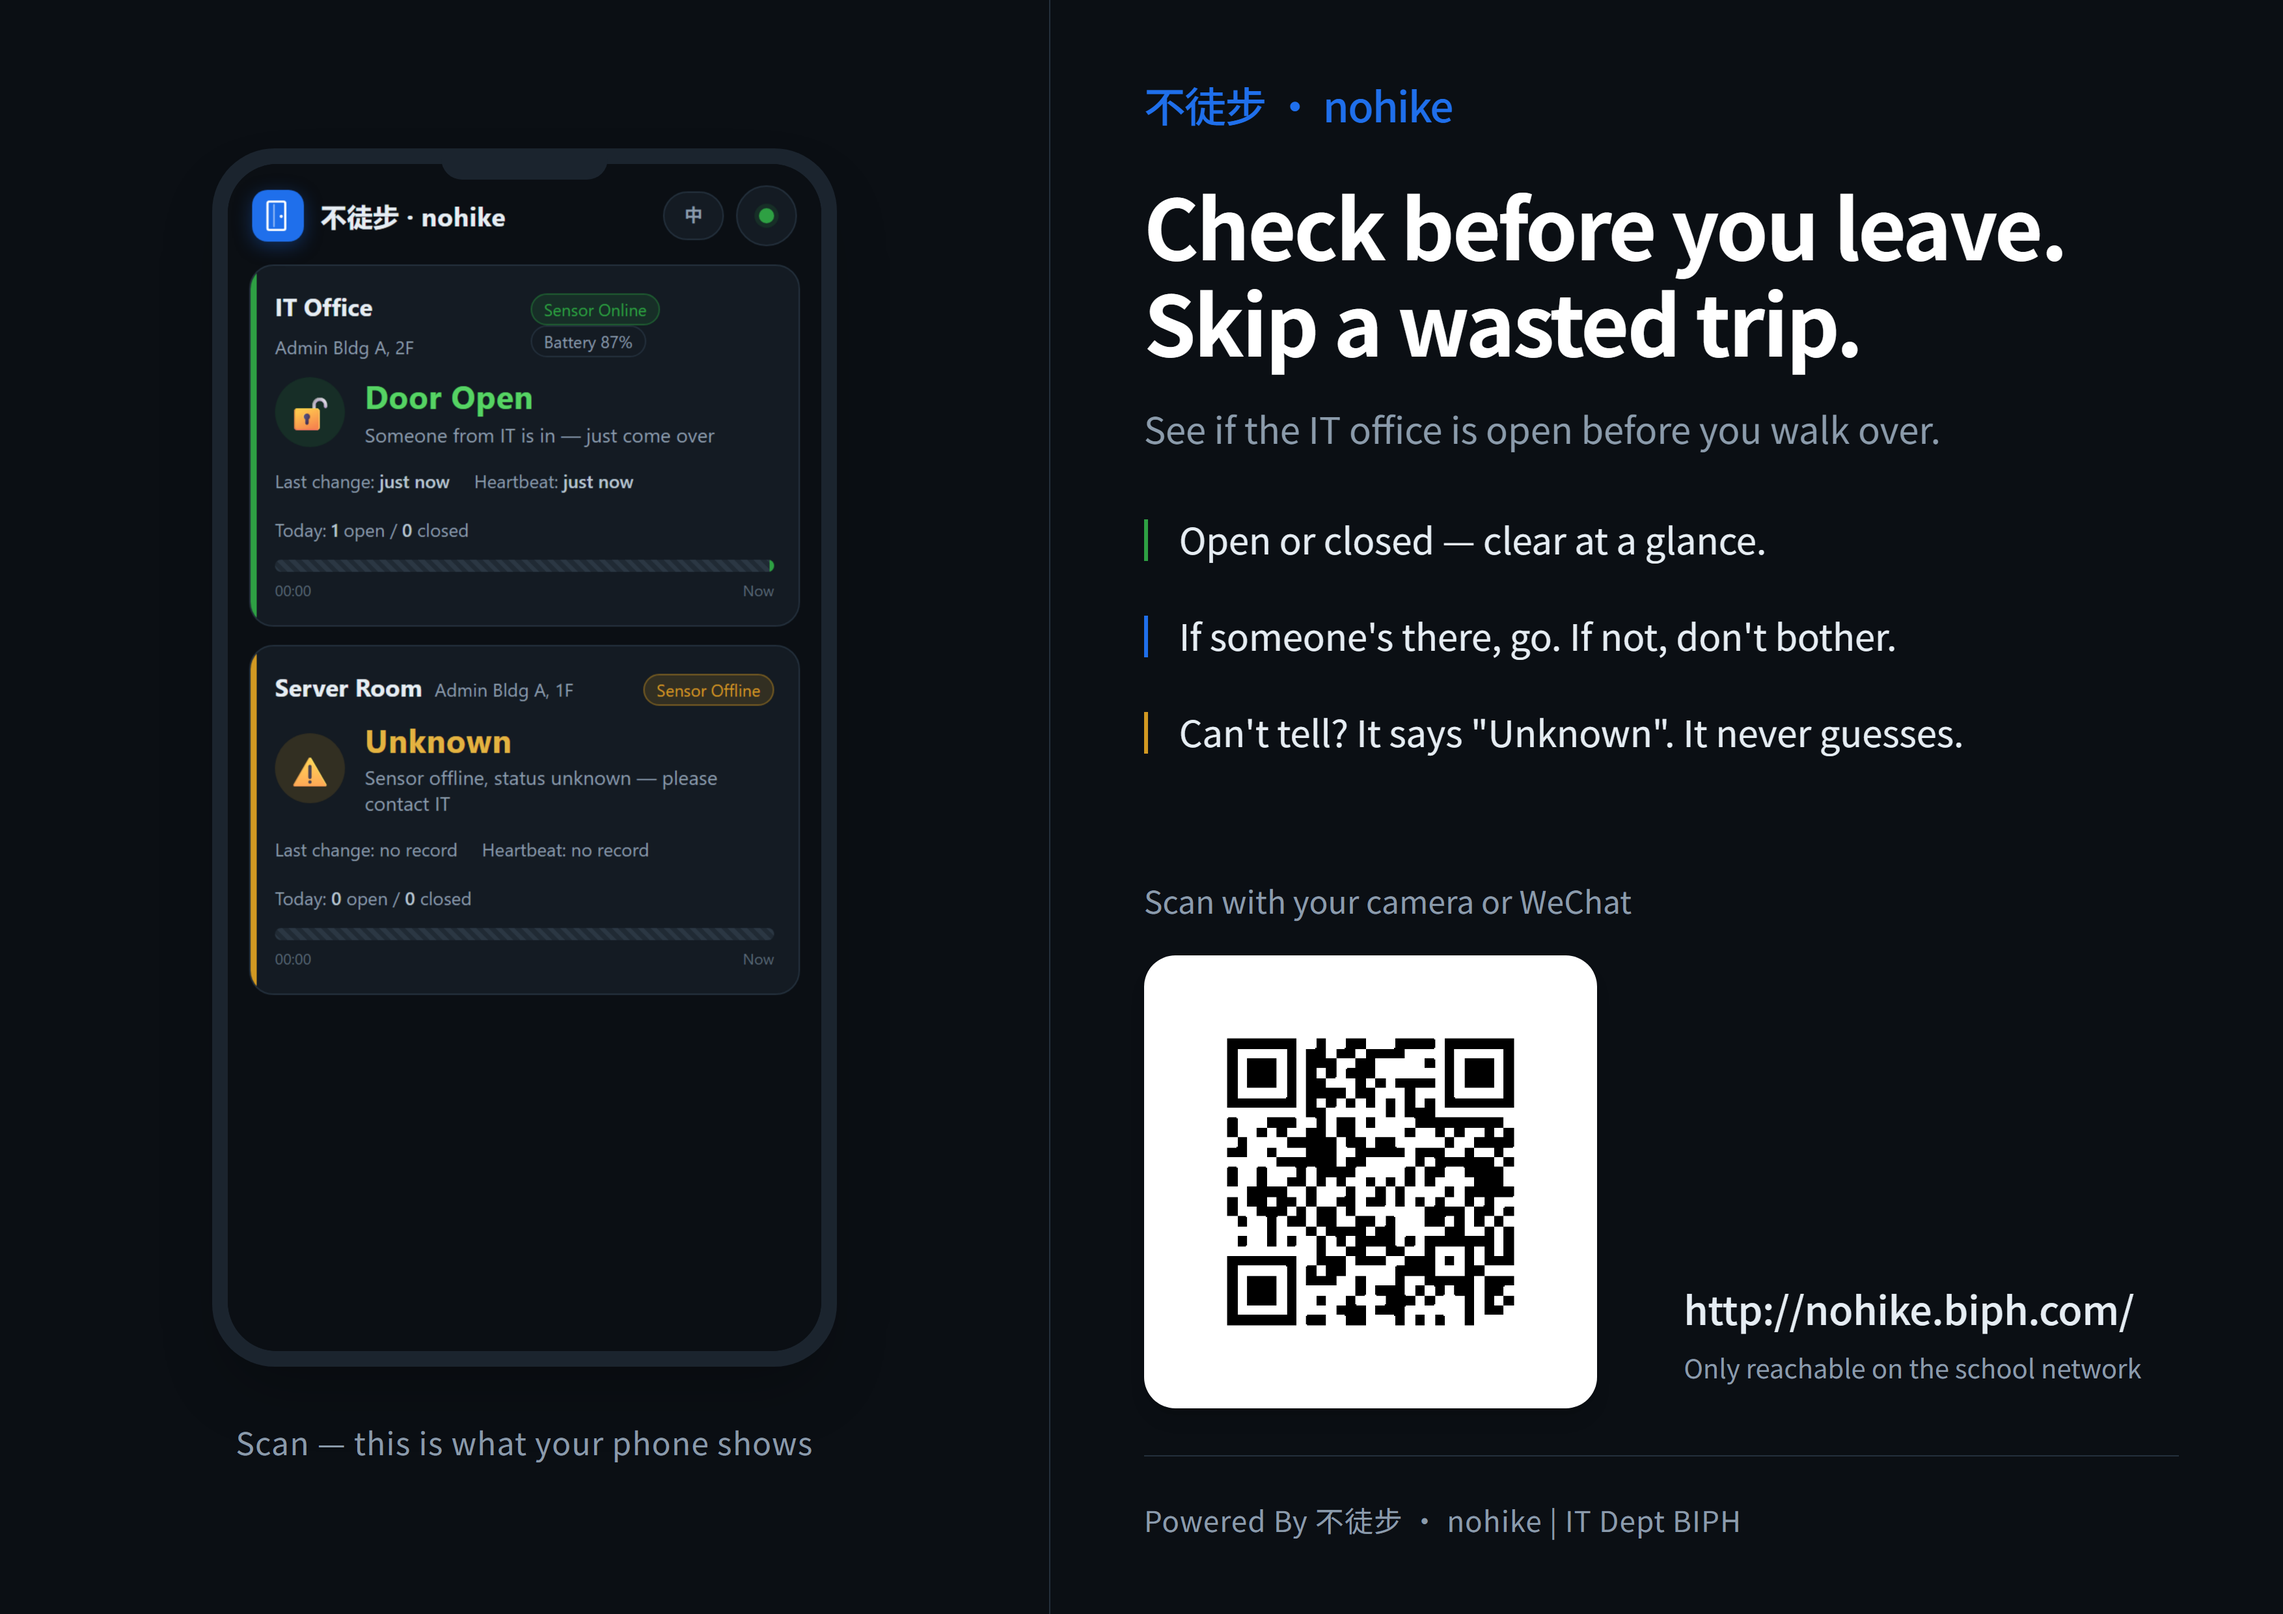
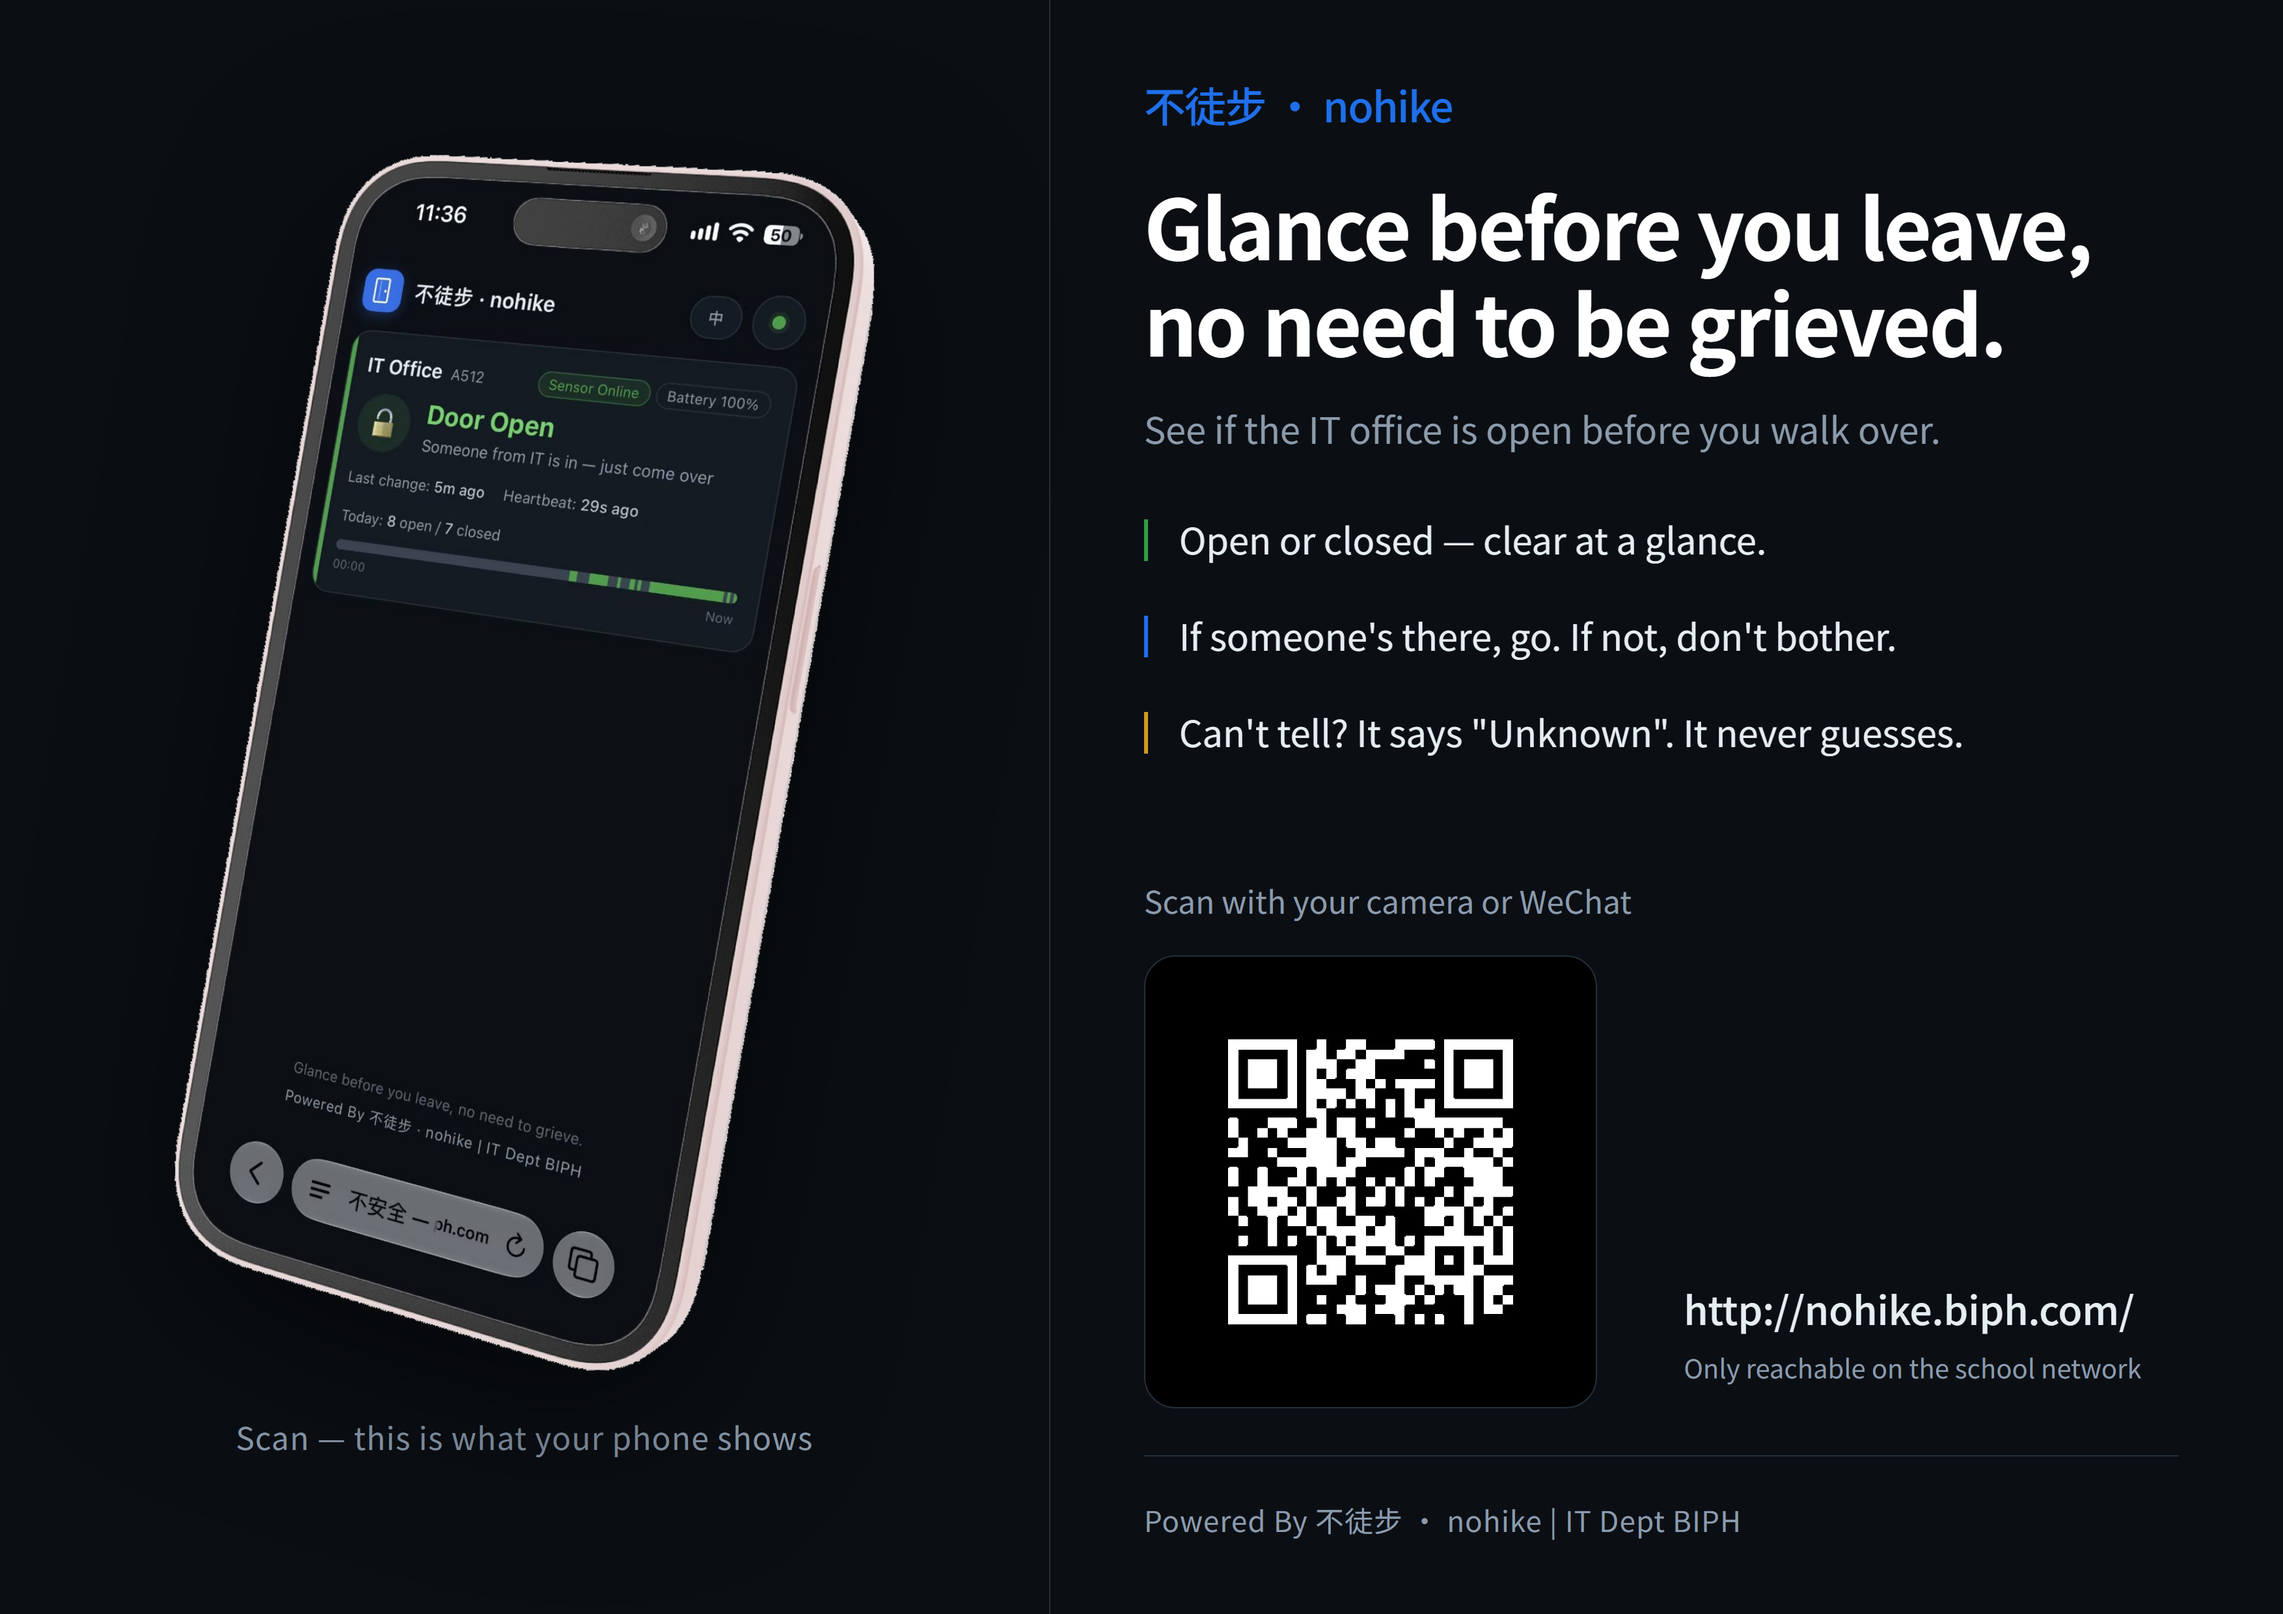
D 版海报定稿：侧角实拍 + 黑底白码二维码 + 英文新 slogan
- 左侧手机样机换成真机侧角实拍（中文/英文各一张，均为 1004x1742 抠图）
- 二维码改反色（ISO/IEC 18004 reflectance reversal）：
  卡片从白底改黑底 + 细描边，静区随背景变黑，四周不留任何白边
- 新增素材 assets/qr-nohike-inv.png（996x996 反色）与 assets/phone-angle-en.png
- 英文标题改为 Glance before you leave, no need to be grieved.
- 英文网页版页脚同步更新（public/i18n.js + test/ui.mjs 断言）
- 删除被取代的中间变体 poster-d-scan-phone-front / poster-d-scan-phone-angle

验证：两张成品 PNG（3508x2480）反解均得 http://nohike.biph.com/；
中文版在 1754x1240 与 877x620 降采样下同样解出；渲染探针显示无元素越界。

Changed region(s): [[0.0621, 0.0931, 0.4039, 0.9004], [0.4971, 0.5899, 0.7147, 0.9004], [0.4971, 0.1242, 0.9322, 0.2484]]

diff --git a/docs/posters/poster-d-scan-en.html b/docs/posters/poster-d-scan-en.html
@@ -17,19 +17,11 @@
     
     <!-- Left Zone: Phone Mockup (46%) -->
     <div class="w-[46%] h-full flex flex-col items-center justify-center border-r border-[#24303c]" data-sd-id="2">
-      <div class="relative" data-sd-id="3">
-        <!-- Phone Body -->
-        <div class="w-[480px] h-[936px] bg-[#1b242e] rounded-[48px] p-[12px] shadow-2xl relative overflow-hidden" data-sd-id="4">
-          <!-- Screen Container -->
-          <div class="w-full h-full bg-[#0b0f14] rounded-[38px] overflow-hidden relative" data-sd-id="5">
-            <img src="assets/dashboard-mobile-en.png" class="w-full h-full object-cover object-top" alt="Mobile Dashboard Preview" data-sd-id="6">
-          </div>
-          <!-- Bezel detail/Reflections (CSS only) -->
-          <div class="absolute top-0 left-1/2 -translate-x-1/2 w-32 h-6 bg-[#1b242e] rounded-b-2xl z-10" data-sd-id="7"></div>
-        </div>
-        <!-- Caption -->
-        <p class="mt-10 text-[24px] text-[#8b9bab] tracking-wide text-center" data-sd-id="8">Scan — this is what your phone shows</p>
-      </div>
+            <img src="assets/phone-angle-en.png"
+           class="w-[540px] drop-shadow-[0_36px_64px_rgba(0,0,0,0.6)]"
+           alt="真机实拍:手机上的门磁看板" data-sd-id="3">
+      <!-- Caption -->
+        <p class="mt-8 text-[24px] text-[#8b9bab] tracking-wide text-center" data-sd-id="8">Scan — this is what your phone shows</p>
     </div>
 
     <!-- Right Zone: Info Column (54%) -->
@@ -39,7 +31,7 @@
       <div data-sd-id="10">
         <span class="text-[32px] font-medium text-[#1f6feb] tracking-tight block mb-8" data-sd-id="11">不徒步 · nohike</span>
         <h1 class="text-[64px] font-bold leading-[1.15] tracking-tight mb-6 text-white" data-sd-id="12">
-          Check before you leave.<br>Skip a wasted trip.
+          Glance before you leave,<br>no need to be grieved.
         </h1>
         <p class="text-[28px] text-[#8b9bab] leading-relaxed mb-10" data-sd-id="13">
           See if the IT office is open before you walk over.
@@ -66,8 +58,8 @@
       <div class="flex items-end gap-10" data-sd-id="24">
         <div class="flex flex-col" data-sd-id="25">
           <p class="text-[24px] text-[#8b9bab] mb-6" data-sd-id="26">Scan with your camera or WeChat</p>
-          <div class="w-[348px] h-[348px] bg-white rounded-[24px] p-[24px] flex items-center justify-center shadow-lg" data-sd-id="27">
-            <img src="assets/qr-nohike.png" class="w-full h-full" alt="QR Code" data-sd-id="28">
+          <div class="w-[348px] h-[348px] bg-black rounded-[24px] p-[24px] flex items-center justify-center border border-[#24303c]" data-sd-id="27">
+            <img src="assets/qr-nohike-inv.png" class="w-full h-full" alt="QR Code" data-sd-id="28">
           </div>
         </div>
         

diff --git a/docs/posters/poster-d-scan.html b/docs/posters/poster-d-scan.html
@@ -17,19 +17,11 @@
     
     <!-- Left Zone: Phone Mockup (46%) -->
     <div class="w-[46%] h-full flex flex-col items-center justify-center border-r border-[#24303c]" data-sd-id="2">
-      <div class="relative" data-sd-id="3">
-        <!-- Phone Body -->
-        <div class="w-[480px] h-[936px] bg-[#1b242e] rounded-[48px] p-[12px] shadow-2xl relative overflow-hidden" data-sd-id="4">
-          <!-- Screen Container -->
-          <div class="w-full h-full bg-[#0b0f14] rounded-[38px] overflow-hidden relative" data-sd-id="5">
-            <img src="assets/dashboard-mobile.png" class="w-full h-full object-cover object-top" alt="Mobile Dashboard Preview" data-sd-id="6">
-          </div>
-          <!-- Bezel detail/Reflections (CSS only) -->
-          <div class="absolute top-0 left-1/2 -translate-x-1/2 w-32 h-6 bg-[#1b242e] rounded-b-2xl z-10" data-sd-id="7"></div>
-        </div>
-        <!-- Caption -->
-        <p class="mt-10 text-[24px] text-[#8b9bab] tracking-wide text-center" data-sd-id="8">扫一下，手机上就是这个页面</p>
-      </div>
+            <img src="assets/phone-angle.png"
+           class="w-[540px] drop-shadow-[0_36px_64px_rgba(0,0,0,0.6)]"
+           alt="真机实拍:手机上的门磁看板" data-sd-id="3">
+      <!-- Caption -->
+        <p class="mt-8 text-[24px] text-[#8b9bab] tracking-wide text-center" data-sd-id="8">扫一下，手机上就是这个页面</p>
     </div>
 
     <!-- Right Zone: Info Column (54%) -->
@@ -66,8 +58,8 @@
       <div class="flex items-end gap-10" data-sd-id="24">
         <div class="flex flex-col" data-sd-id="25">
           <p class="text-[24px] text-[#8b9bab] mb-6" data-sd-id="26">用手机相机或微信扫一扫</p>
-          <div class="w-[348px] h-[348px] bg-white rounded-[24px] p-[24px] flex items-center justify-center shadow-lg" data-sd-id="27">
-            <img src="assets/qr-nohike.png" class="w-full h-full" alt="QR Code" data-sd-id="28">
+          <div class="w-[348px] h-[348px] bg-black rounded-[24px] p-[24px] flex items-center justify-center border border-[#24303c]" data-sd-id="27">
+            <img src="assets/qr-nohike-inv.png" class="w-full h-full" alt="QR Code" data-sd-id="28">
           </div>
         </div>
         

diff --git a/public/i18n.js b/public/i18n.js
@@ -94,7 +94,7 @@ const DICT = {
     heartbeat: 'Heartbeat',
     today: 'Today: {open} open / {close} closed',
     now: 'Now',
-    footerHint: 'Glance before you leave, no need to grieve.',
+    footerHint: 'Glance before you leave, no need to be grieved.',
     poweredBy: 'Powered By 不徒步 · nohike | IT Dept BIPH',
 
     /* ---- 相对时间 ---- */
